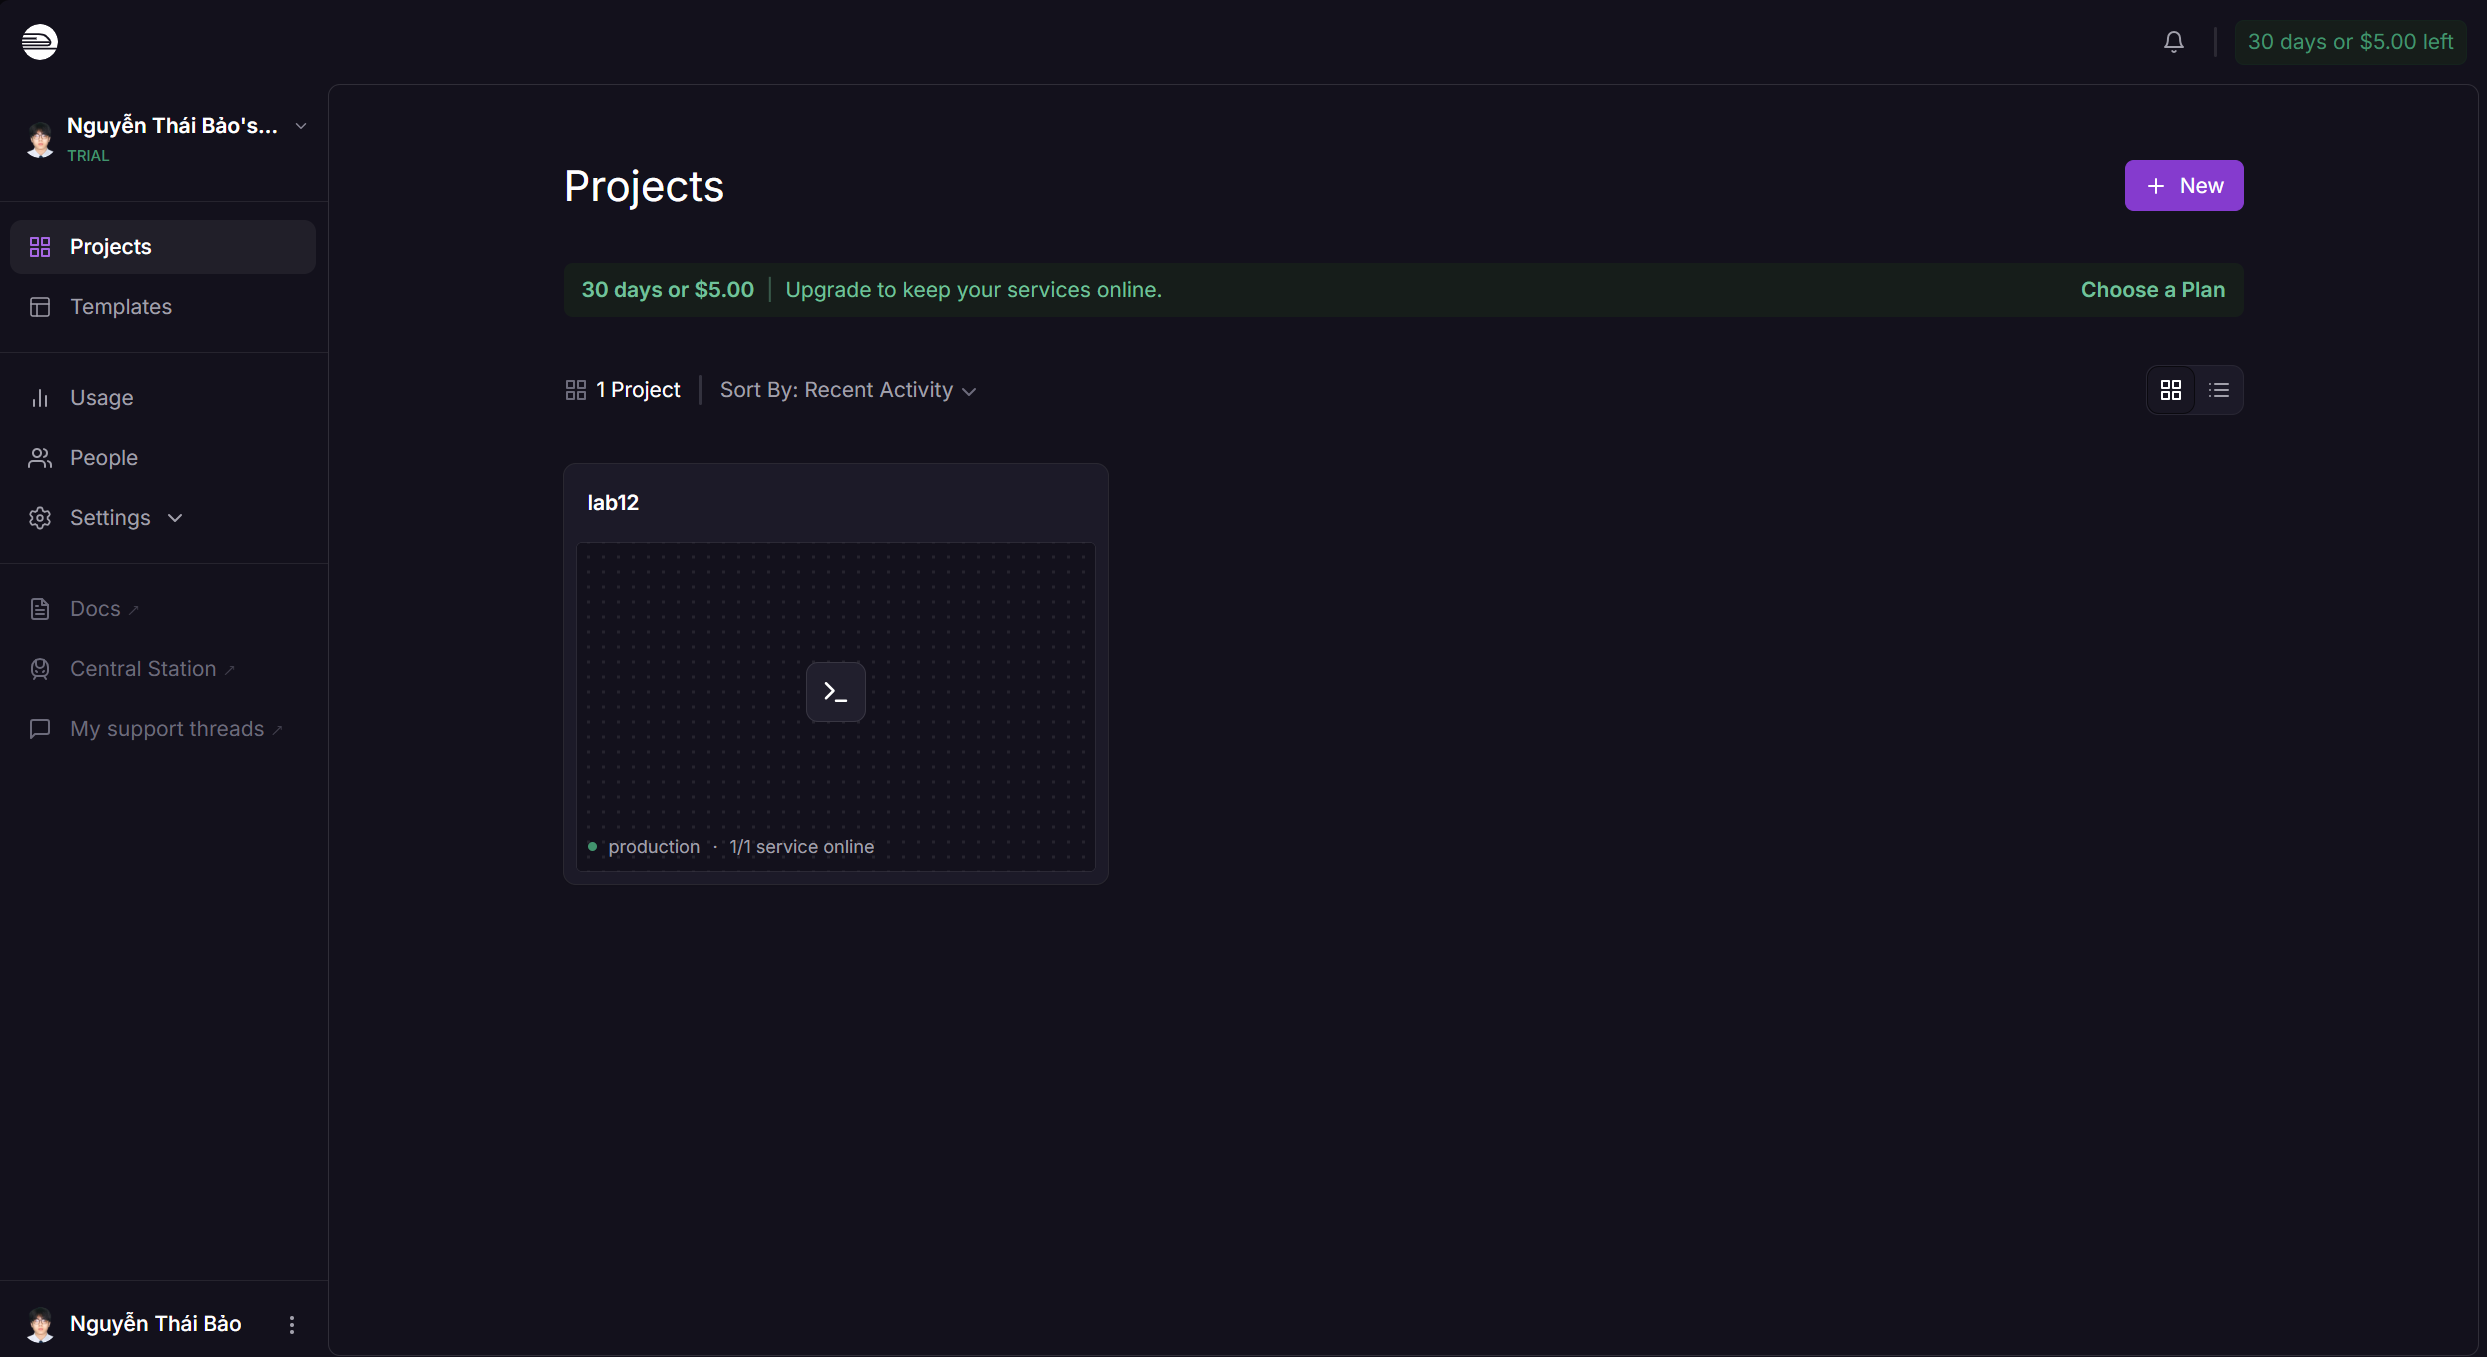
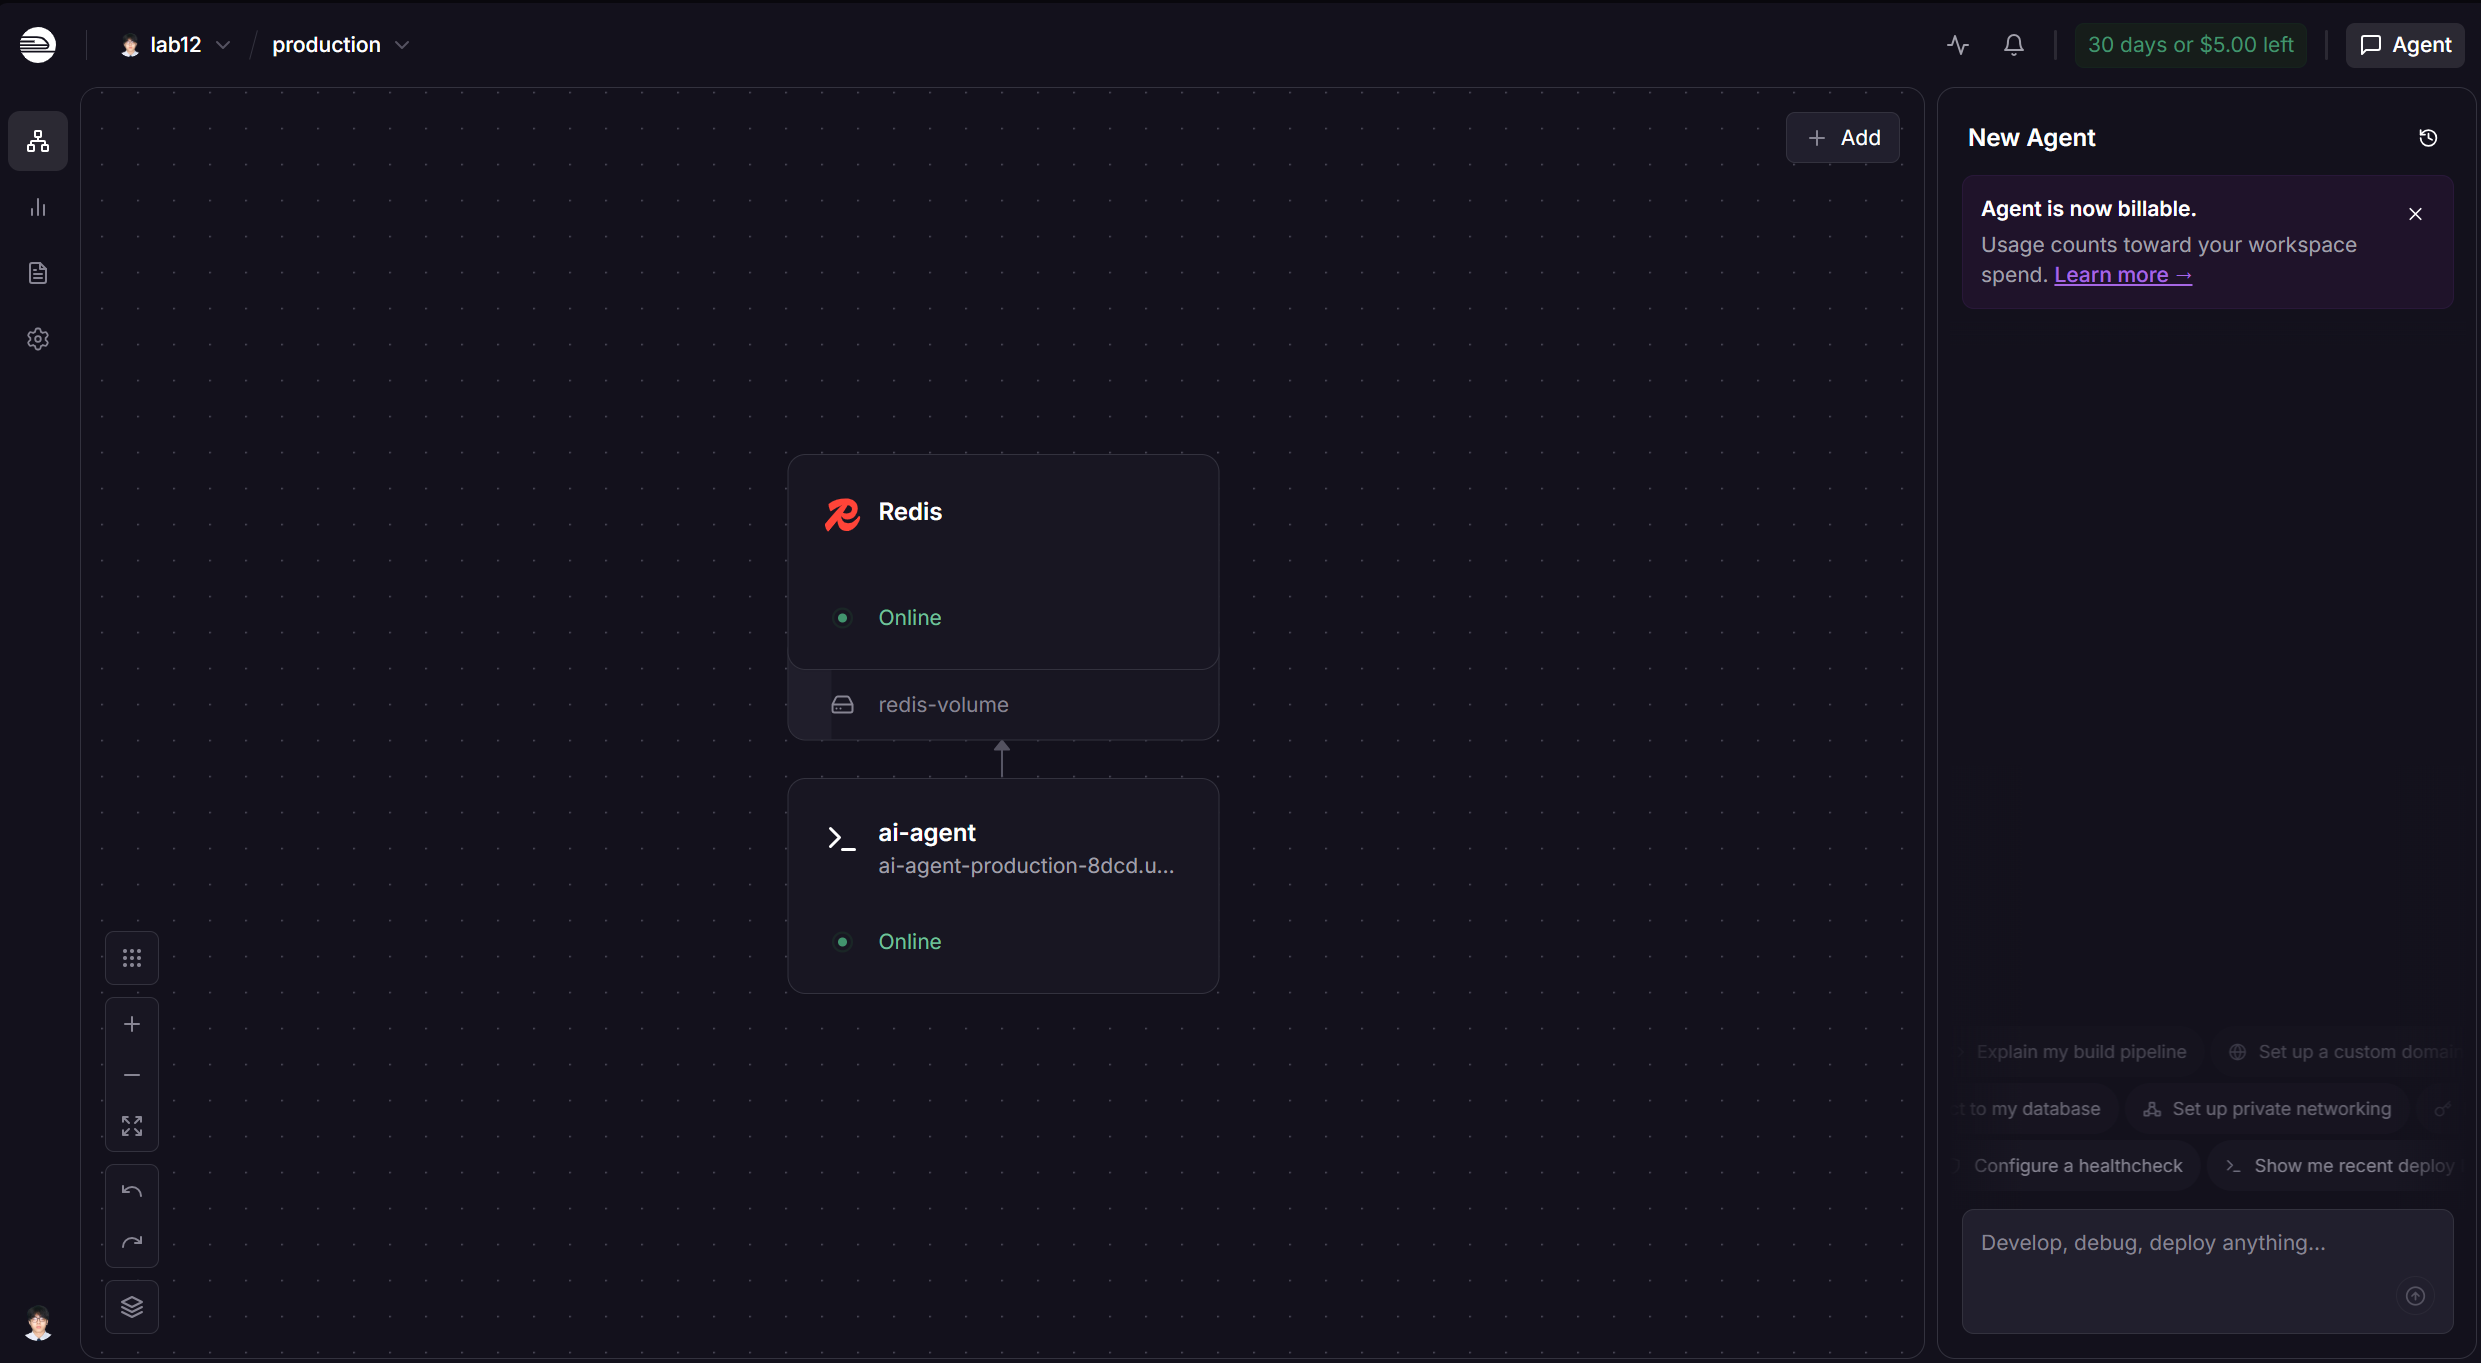
Update deployment evidence

diff --git a/DEPLOYMENT.md b/DEPLOYMENT.md
@@ -47,7 +47,7 @@ Expected: requests after the first 10 in one minute return `429`.
 ## Environment Variables Set
 
 - `PORT`
-- `REDIS_URL` if Redis is attached; current Railway deployment uses the app's memory fallback.
+- `REDIS_URL`
 - `AGENT_API_KEY`
 - `JWT_SECRET`
 - `RATE_LIMIT_PER_MINUTE=10`
